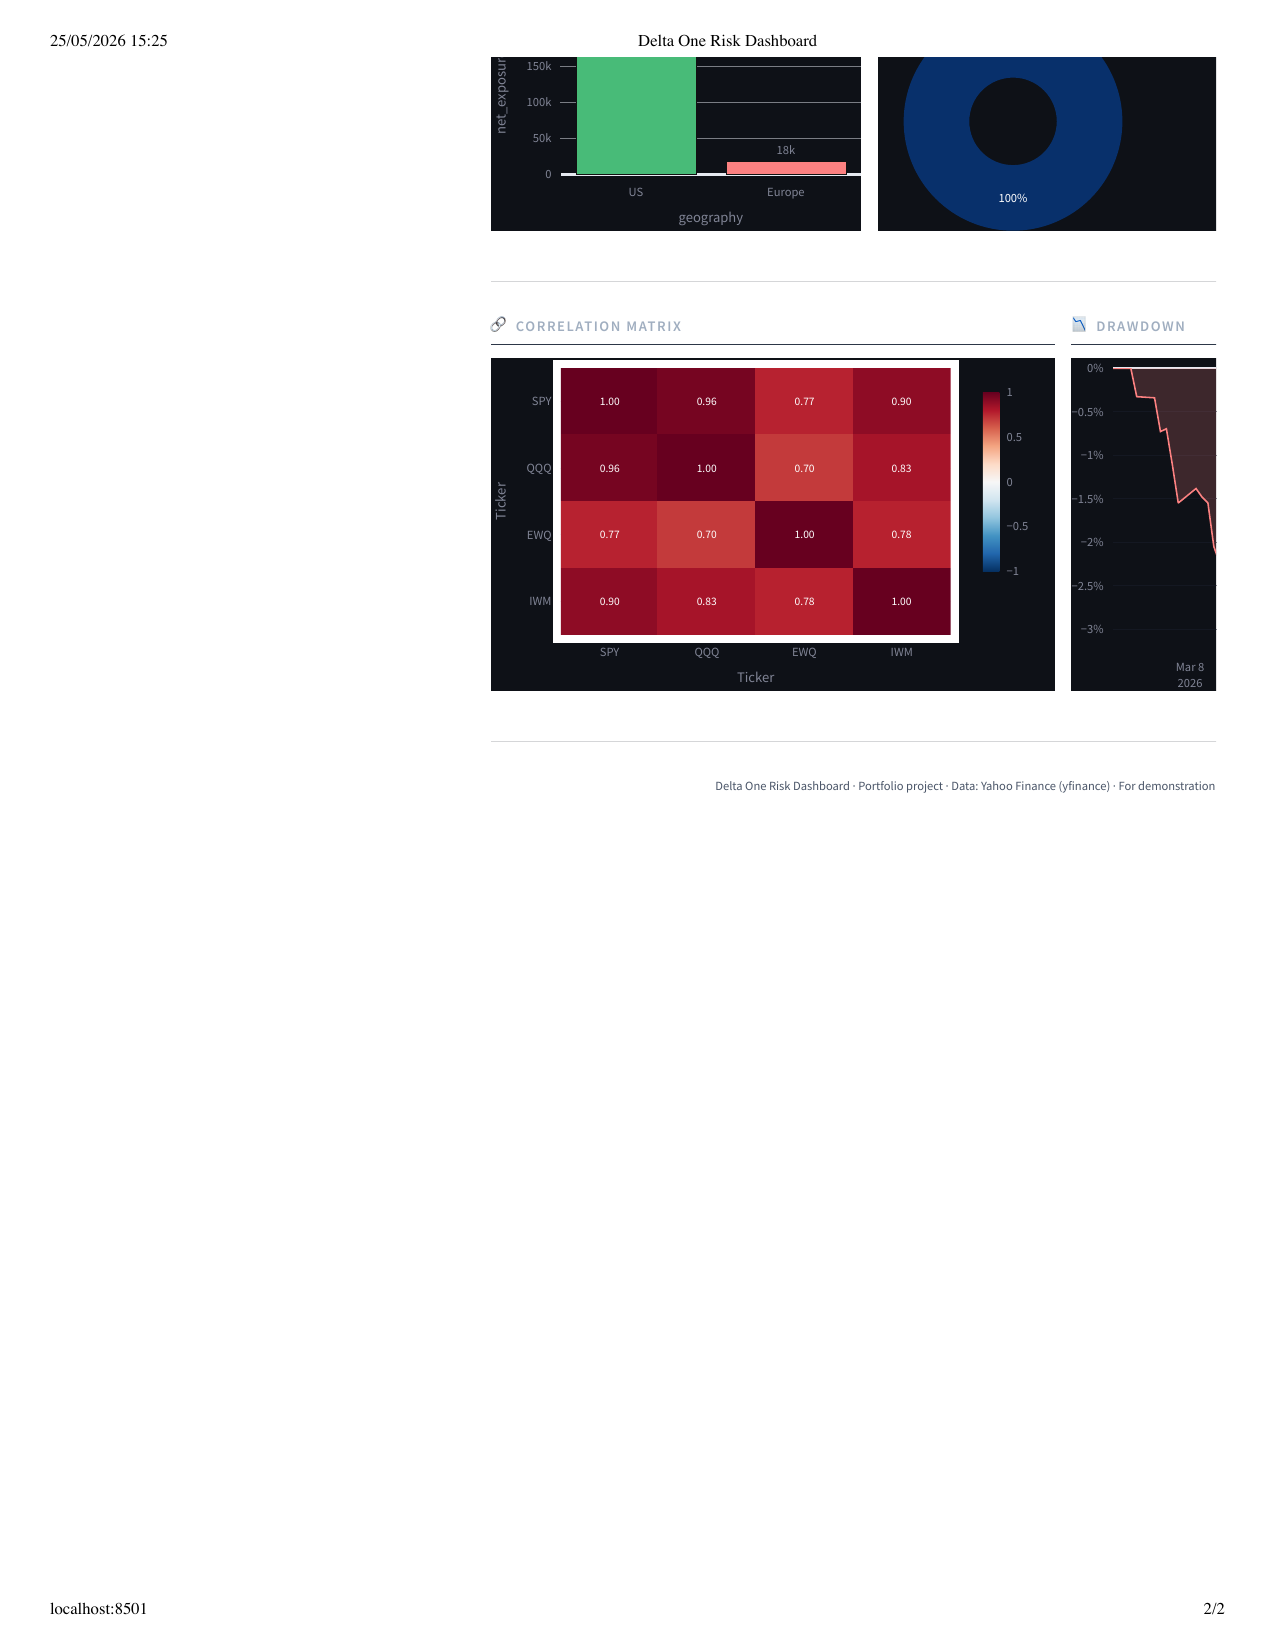
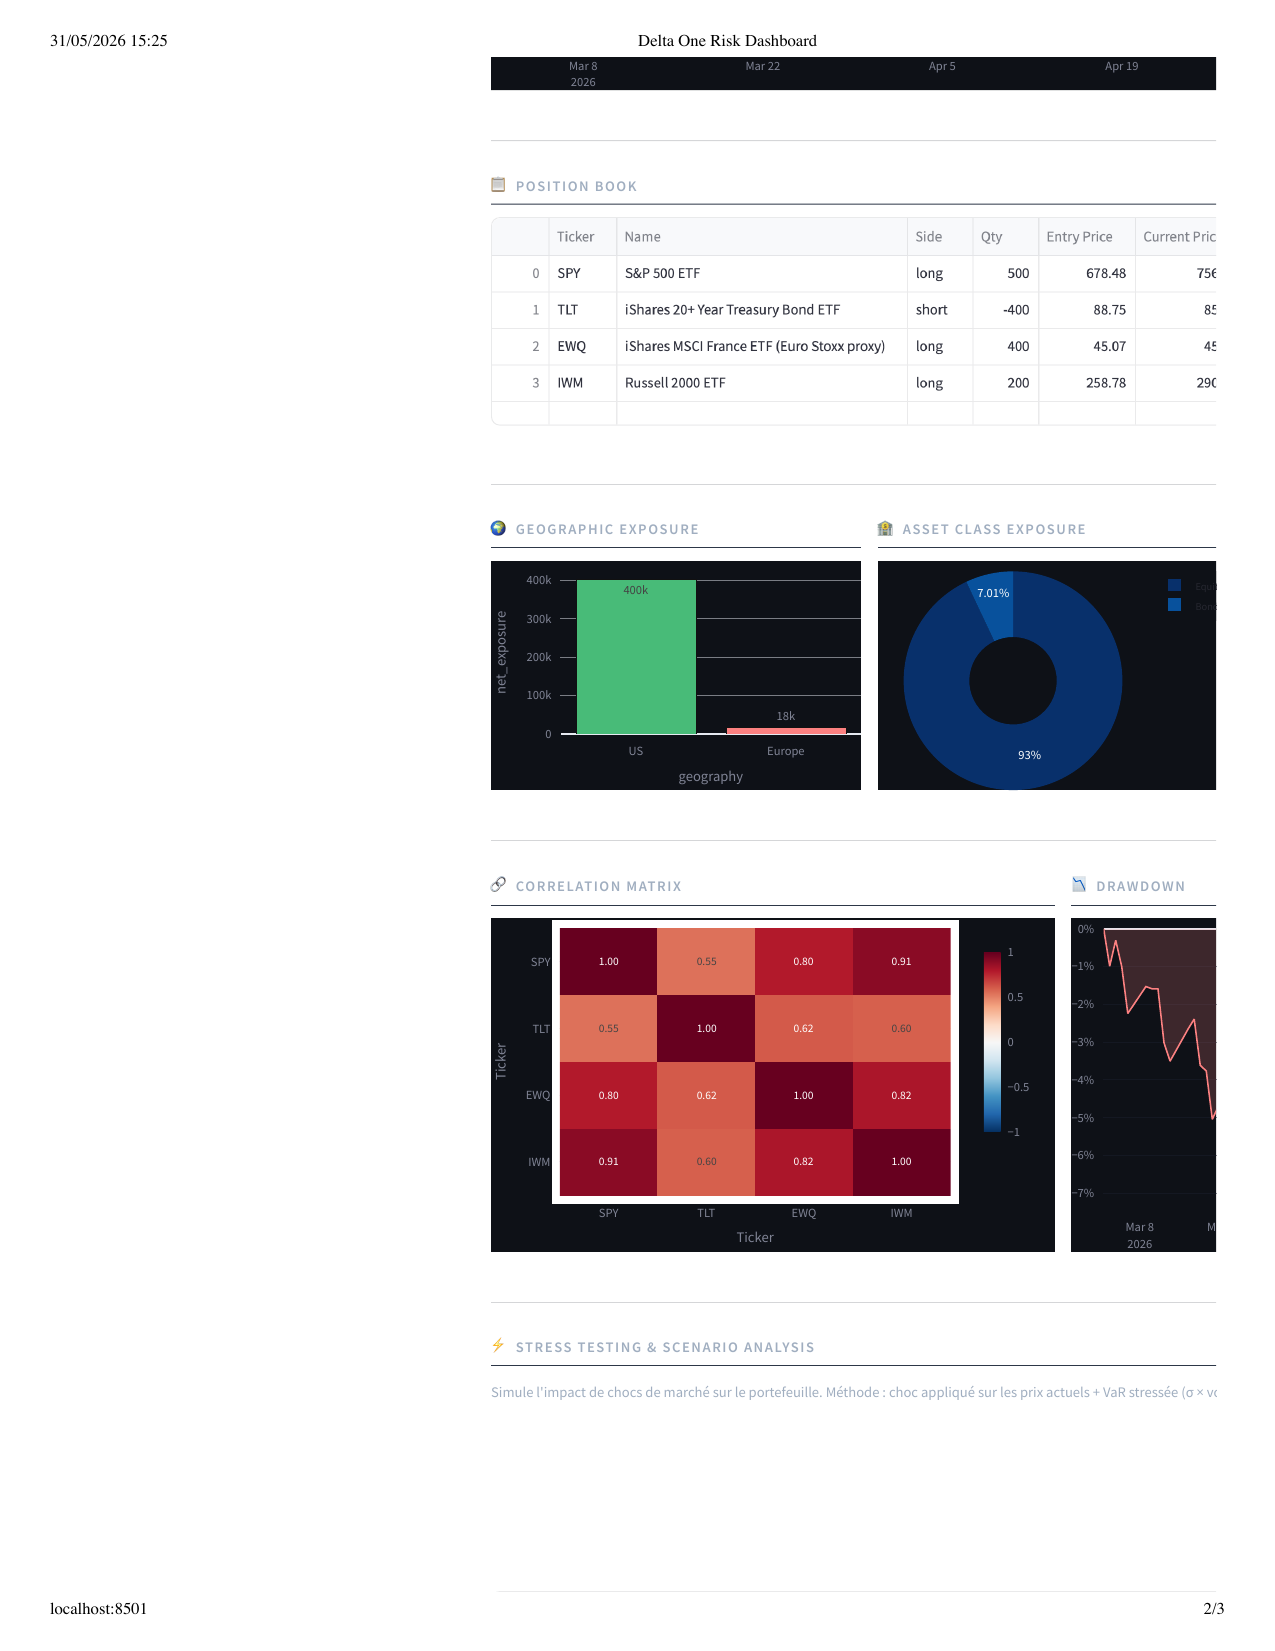
docs: update screenshots with latest dashboard (stress testing, NAV vs SPY, TLT short)

diff --git a/README.md b/README.md
@@ -12,9 +12,11 @@
 
 ## 📸 Preview
 
-![Dashboard - Portfolio Summary & PnL](docs/dashboard_screenshot.png)
+![Dashboard - KPIs, PnL History & NAV vs Benchmark](docs/dashboard_screenshot_1.png)
 
-![Dashboard - Correlations & Drawdown](docs/dashboard_screenshot_2.png)
+![Dashboard - Position Book, Exposures, Correlation & Drawdown](docs/dashboard_screenshot_2.png)
+
+![Dashboard - Stress Testing & Scenario Analysis](docs/dashboard_screenshot_3.png)
 
 ---
 